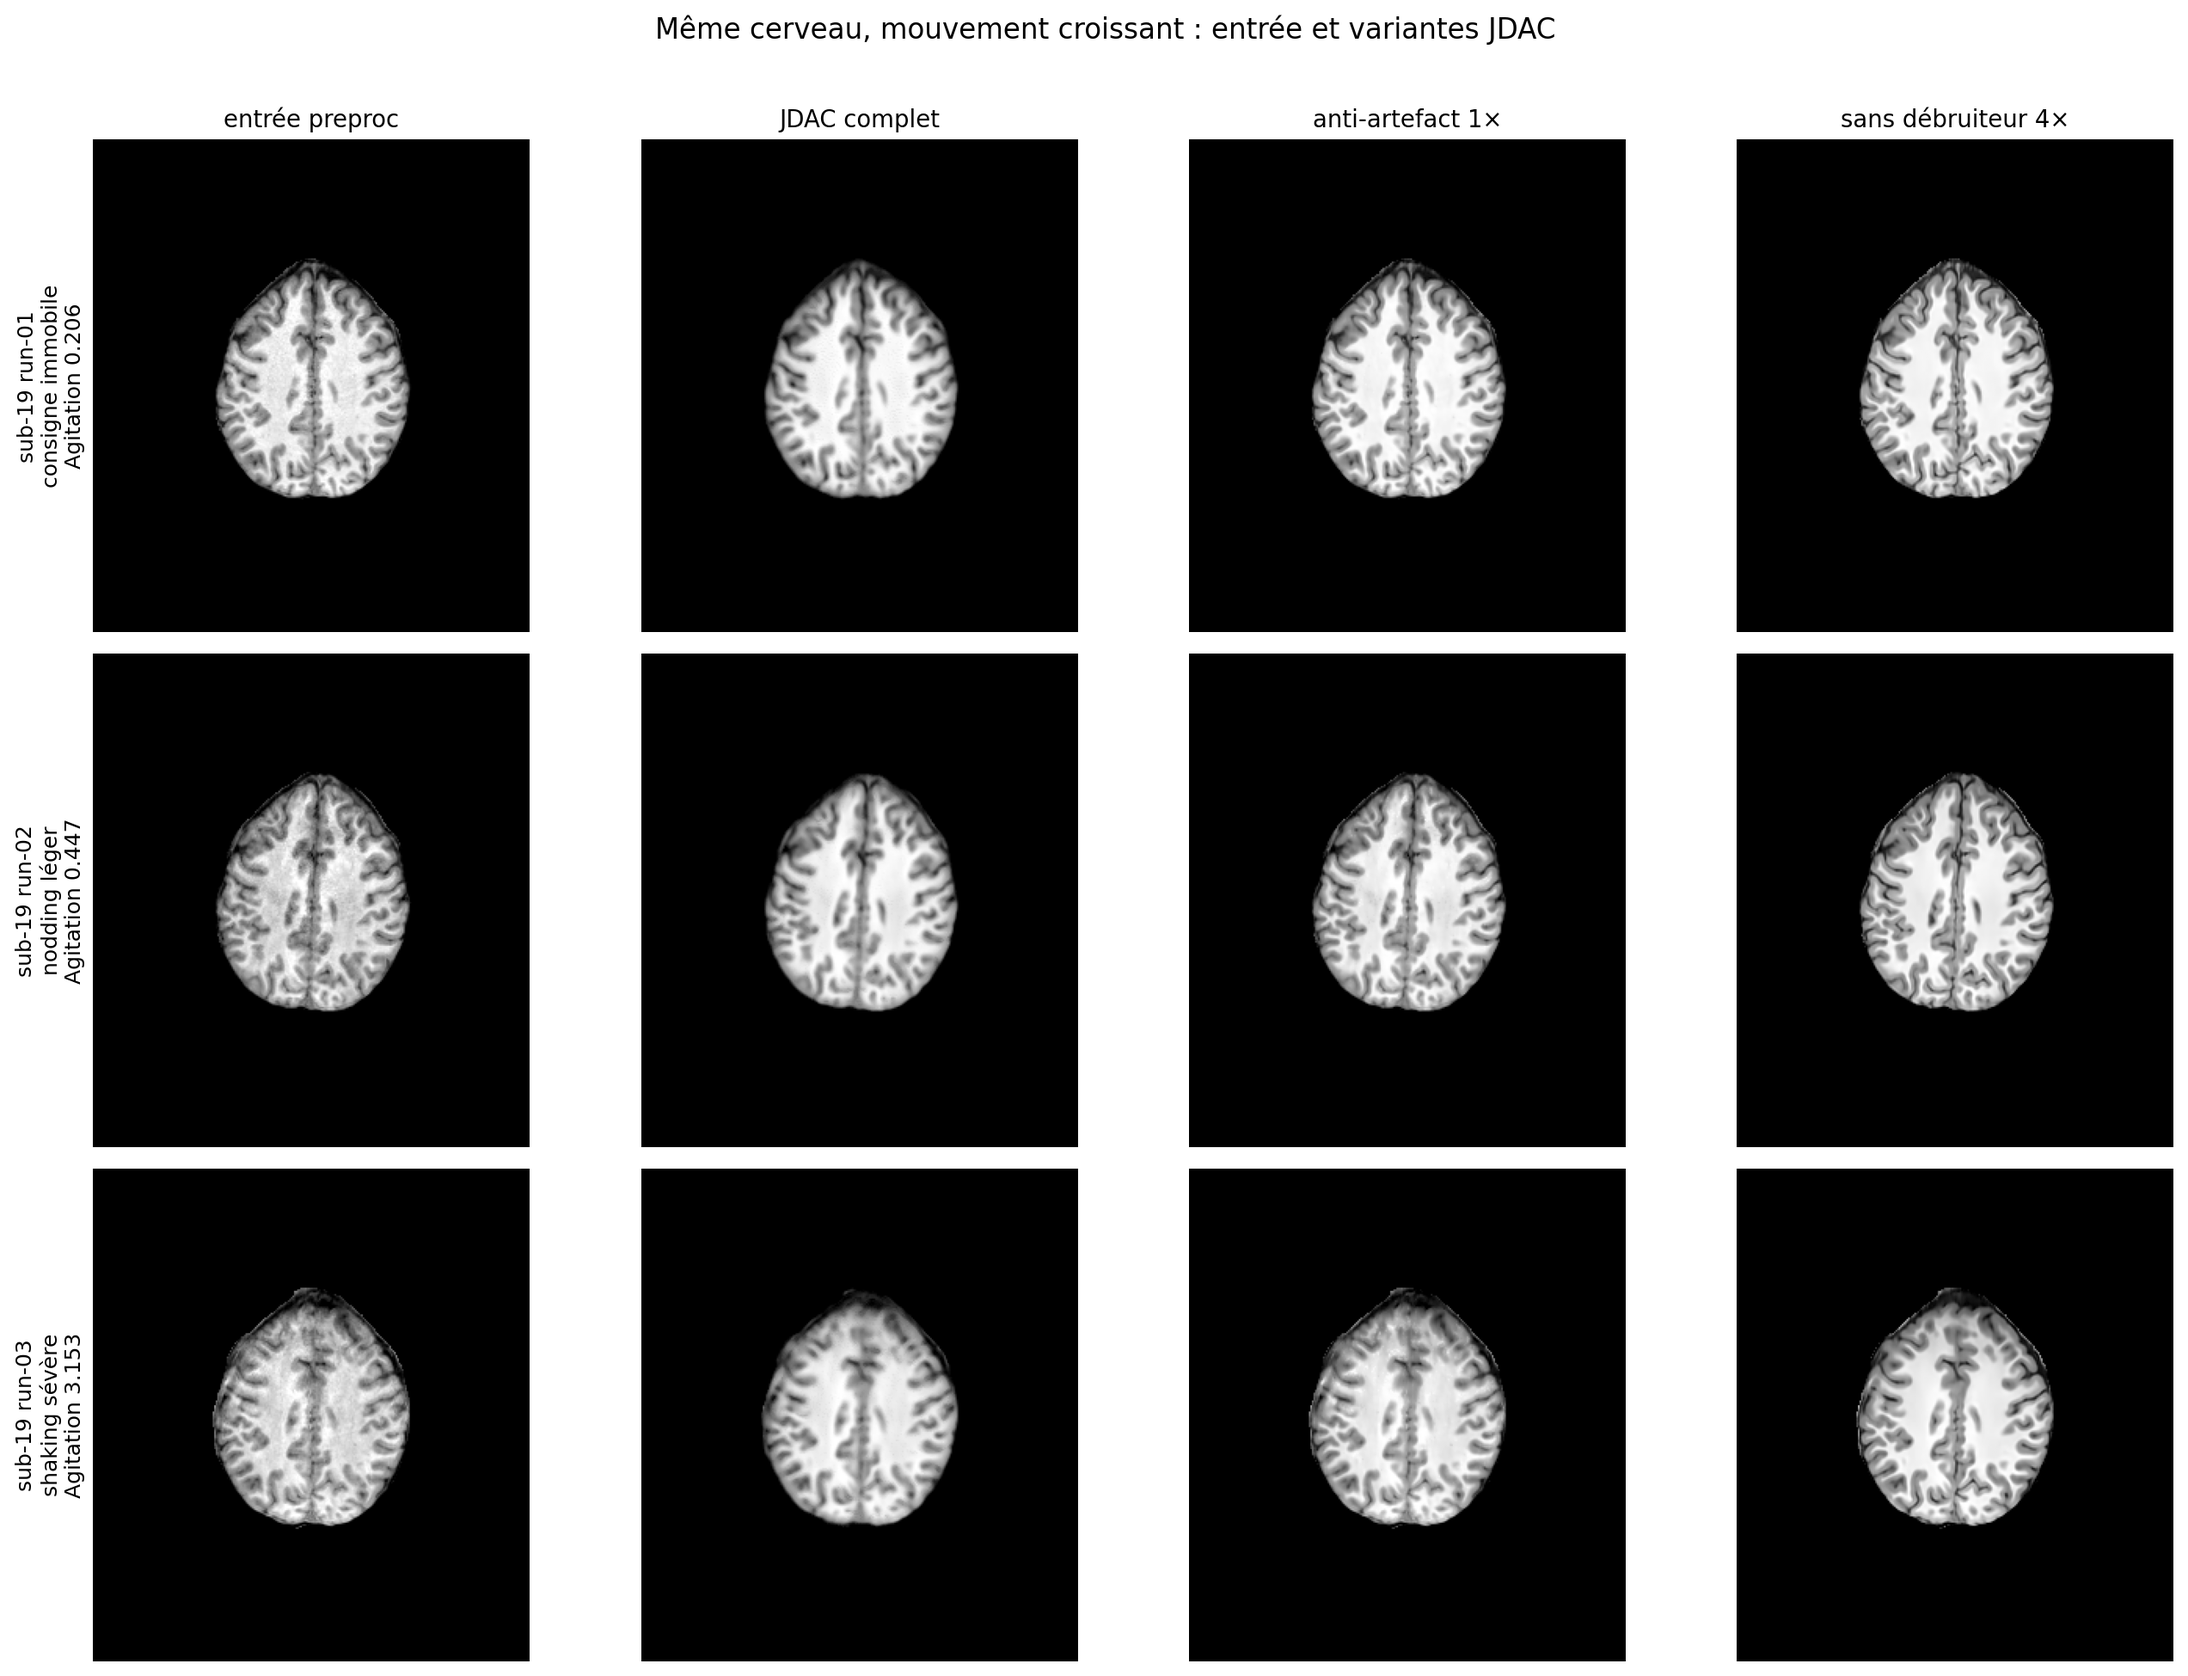
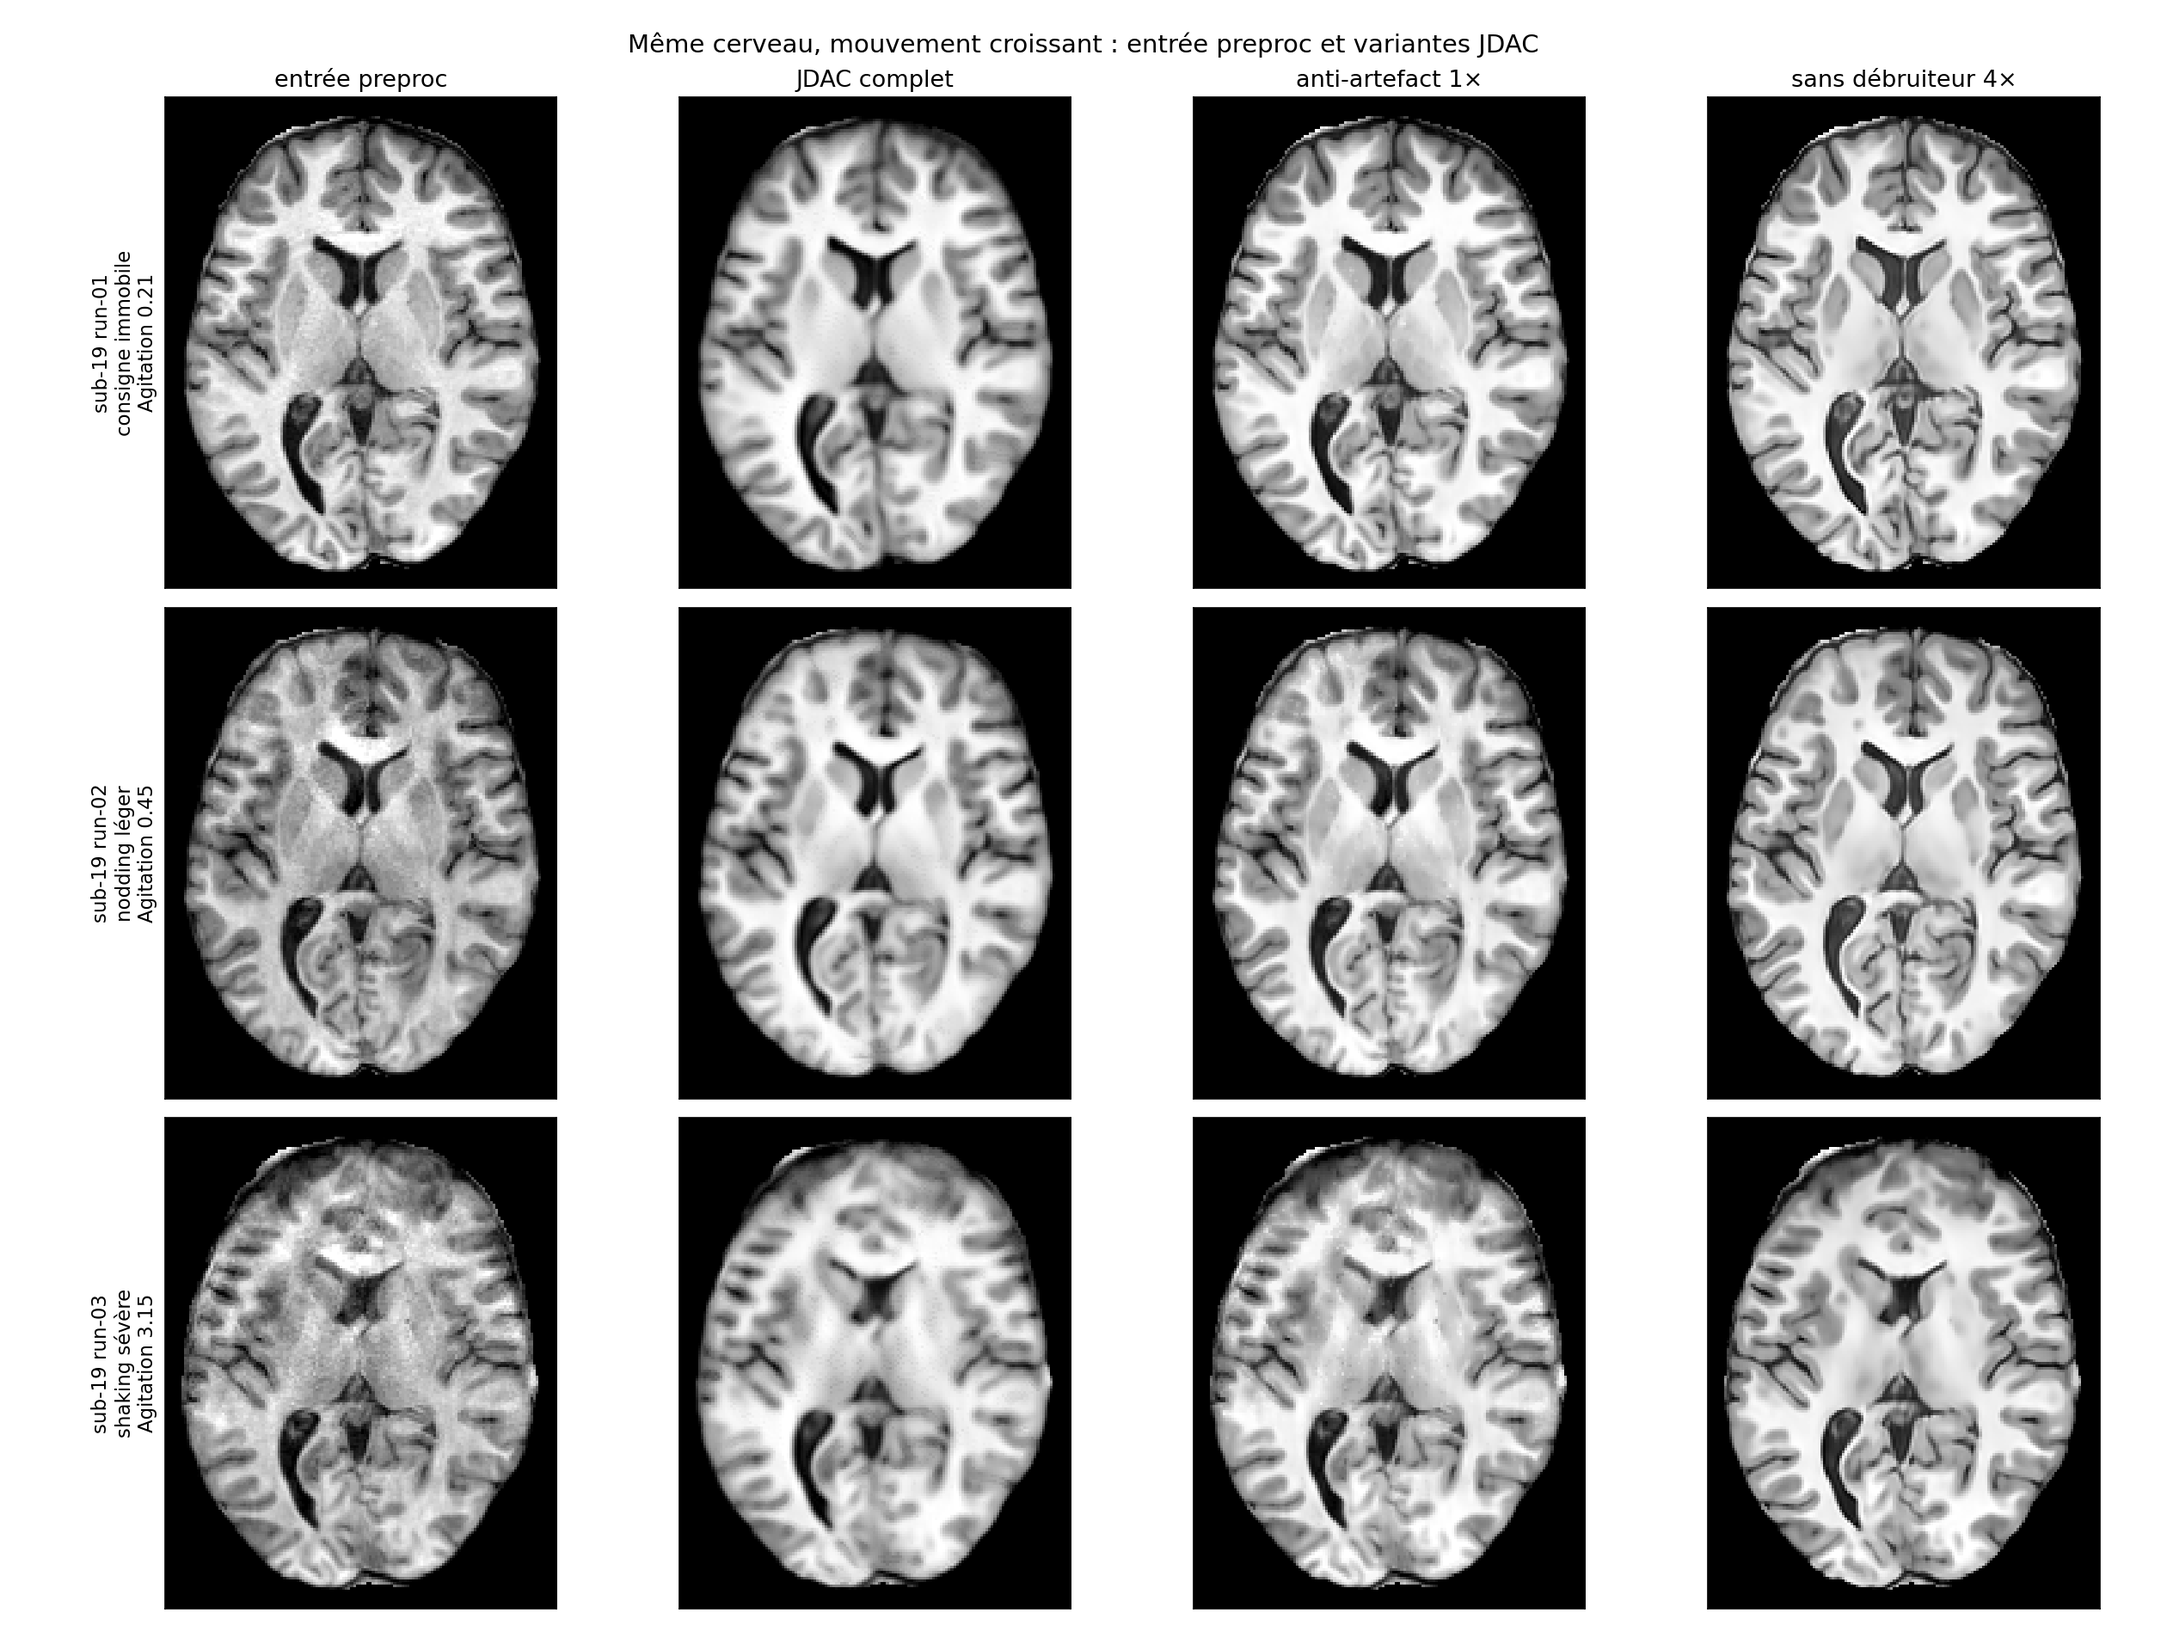
Montage sub-19 : coupe mi-cerveau (etendue du cerveau), recadrage serre, panneaux plus grands

diff --git a/pipelines/ds004332/phase3_JDAC/fig_sub19_three_runs.py b/pipelines/ds004332/phase3_JDAC/fig_sub19_three_runs.py
@@ -1,10 +1,16 @@
 #!/usr/bin/env python3
-"""Compare the three sub-19 runs across the four rigid image conditions.
+"""Compare les trois runs de sub-19 sur les quatre conditions d'image (rigide).
 
-Rows are the same brain with increasing instructed motion. Columns are the
-preprocessed JDAC input and the three JDAC outputs. All panels share the rigid
-grid and use the same axial slice fraction. Display intensities are normalized
-per panel only for visualization; quantitative comparisons remain in Phase 4.
+Lignes = même cerveau, mouvement croissant. Colonnes = entrée preproc puis les
+trois sorties JDAC. Toutes les images partagent la grille rigide.
+
+Réglages de rendu (montage type réunion) :
+- coupe axiale choisie sur l'ÉTENDUE du cerveau (pas sur la grille paddée), pour
+  tomber au milieu du cerveau et pas trop haut ;
+- recadrage sur la boîte englobante commune du cerveau (images resserrées) ;
+- panneaux grands, fenêtrage percentile par panneau.
+Les intensités affichées sont normalisées par panneau pour la visualisation ;
+les comparaisons quantitatives restent en Phase 4.
 """
 
 from pathlib import Path
@@ -29,17 +35,12 @@ RUNS = [
 CONDITIONS = [
     ("preproc", "entrée preproc", "preproc_rigid/{sid}/{sid}_brain.nii.gz"),
     ("jdac", "JDAC complet", "jdac_rigid/{sid}/{sid}_T1w_jdac.nii.gz"),
-    (
-        "antiartonly",
-        "anti-artefact 1×",
-        "jdac_rigid_antiartonly/{sid}/{sid}_T1w_jdac_antiartonly.nii.gz",
-    ),
-    (
-        "nodenoise",
-        "sans débruiteur 4×",
-        "jdac_rigid_nodenoise/{sid}/{sid}_T1w_jdac_nodenoise.nii.gz",
-    ),
+    ("antiartonly", "anti-artefact 1×", "jdac_rigid_antiartonly/{sid}/{sid}_T1w_jdac_antiartonly.nii.gz"),
+    ("nodenoise", "sans débruiteur 4×", "jdac_rigid_nodenoise/{sid}/{sid}_T1w_jdac_nodenoise.nii.gz"),
 ]
+
+Z_FRACTION = 0.50   # position de la coupe le long de l'étendue du cerveau
+MARGIN = 6          # voxels de marge autour du cerveau pour le recadrage
 
 
 def load(path: Path) -> np.ndarray:
@@ -48,40 +49,55 @@ def load(path: Path) -> np.ndarray:
     return nib.as_closest_canonical(nib.load(str(path))).get_fdata().astype(np.float32)
 
 
-def normalized_slice(volume: np.ndarray, fraction: float = 0.52) -> np.ndarray:
-    index = int(round(volume.shape[2] * fraction))
-    image = volume[:, :, index].T
-    mask = image > 0
-    if not mask.any():
-        return image
-    low, high = np.percentile(image[mask], [1, 99.5])
-    scaled = np.clip((image - low) / max(high - low, 1e-6), 0, 1)
-    scaled[~mask] = 0
-    return scaled
+def common_slice_and_box(volumes):
+    """Coupe axiale (milieu du cerveau) et boîte englobante 2D communes à tous les volumes."""
+    mask = np.zeros(volumes[0].shape, dtype=bool)
+    for v in volumes:
+        mask |= v > 0
+    zs = np.where(mask.any(axis=(0, 1)))[0]
+    k = int(round(zs.min() + Z_FRACTION * (zs.max() - zs.min())))
+    sl = mask[:, :, k]
+    rows = np.where(sl.any(axis=1))[0]
+    cols = np.where(sl.any(axis=0))[0]
+    r0, r1 = max(rows.min() - MARGIN, 0), min(rows.max() + MARGIN, sl.shape[0] - 1)
+    c0, c1 = max(cols.min() - MARGIN, 0), min(cols.max() + MARGIN, sl.shape[1] - 1)
+    return k, (r0, r1, c0, c1)
+
+
+def panel(volume, k, box):
+    r0, r1, c0, c1 = box
+    img = volume[r0:r1 + 1, c0:c1 + 1, k].T
+    m = img > 0
+    if m.any():
+        lo, hi = np.percentile(img[m], [1, 99.5])
+        img = np.clip((img - lo) / max(hi - lo, 1e-6), 0, 1)
+        img[~m] = 0
+    return img
 
 
 def main() -> None:
-    fig, axes = plt.subplots(len(RUNS), len(CONDITIONS), figsize=(15, 11))
-    for row, (run, label, agitation) in enumerate(RUNS):
+    grid = {}
+    for run, _, _ in RUNS:
         sid = f"sub-19_{run}"
-        for col, (_, title, template) in enumerate(CONDITIONS):
-            path = DERIV / template.format(sid=sid)
-            axes[row, col].imshow(normalized_slice(load(path)), cmap="gray", origin="lower")
-            axes[row, col].set_xticks([])
-            axes[row, col].set_yticks([])
-            if row == 0:
-                axes[row, col].set_title(title, fontsize=11)
-        axes[row, 0].set_ylabel(
-            f"sub-19 {run}\n{label}\nAgitation {agitation:.3f}", fontsize=10
-        )
-    fig.suptitle(
-        "Même cerveau, mouvement croissant : entrée et variantes JDAC",
-        fontsize=13,
-    )
-    fig.tight_layout(rect=[0, 0, 1, 0.97])
+        for cond, _, template in CONDITIONS:
+            grid[(run, cond)] = load(DERIV / template.format(sid=sid))
+    k, box = common_slice_and_box(list(grid.values()))
+
+    nrow, ncol = len(RUNS), len(CONDITIONS)
+    fig, axes = plt.subplots(nrow, ncol, figsize=(4.2 * ncol, 4.2 * nrow))
+    for r, (run, label, agitation) in enumerate(RUNS):
+        for c, (cond, title, _) in enumerate(CONDITIONS):
+            axes[r, c].imshow(panel(grid[(run, cond)], k, box), cmap="gray", origin="lower")
+            axes[r, c].set_xticks([]); axes[r, c].set_yticks([])
+            if r == 0:
+                axes[r, c].set_title(title, fontsize=13)
+        axes[r, 0].set_ylabel(f"sub-19 {run}\n{label}\nAgitation {agitation:.2f}", fontsize=11)
+
+    fig.suptitle("Même cerveau, mouvement croissant : entrée preproc et variantes JDAC", fontsize=14)
+    fig.subplots_adjust(left=0.05, right=0.995, top=0.94, bottom=0.01, wspace=0.02, hspace=0.04)
     OUT.parent.mkdir(parents=True, exist_ok=True)
-    fig.savefig(OUT, dpi=180, bbox_inches="tight")
-    print(f"Figure -> {OUT}")
+    fig.savefig(OUT, dpi=150)
+    print(f"Figure -> {OUT}  (coupe z={k})")
 
 
 if __name__ == "__main__":
